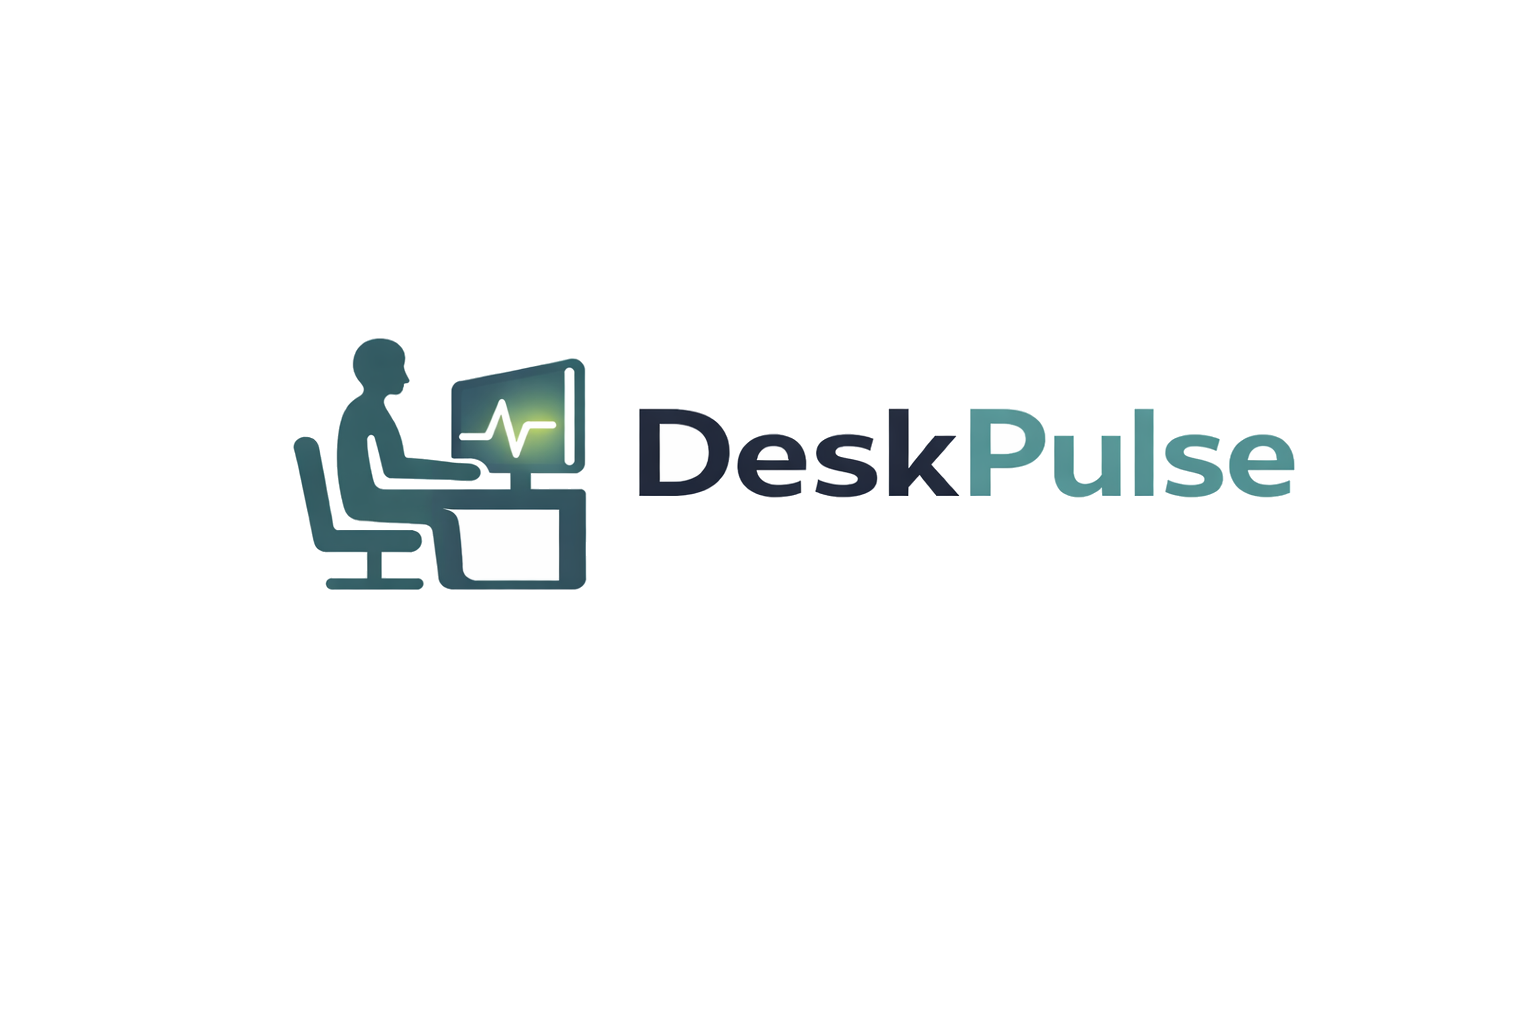
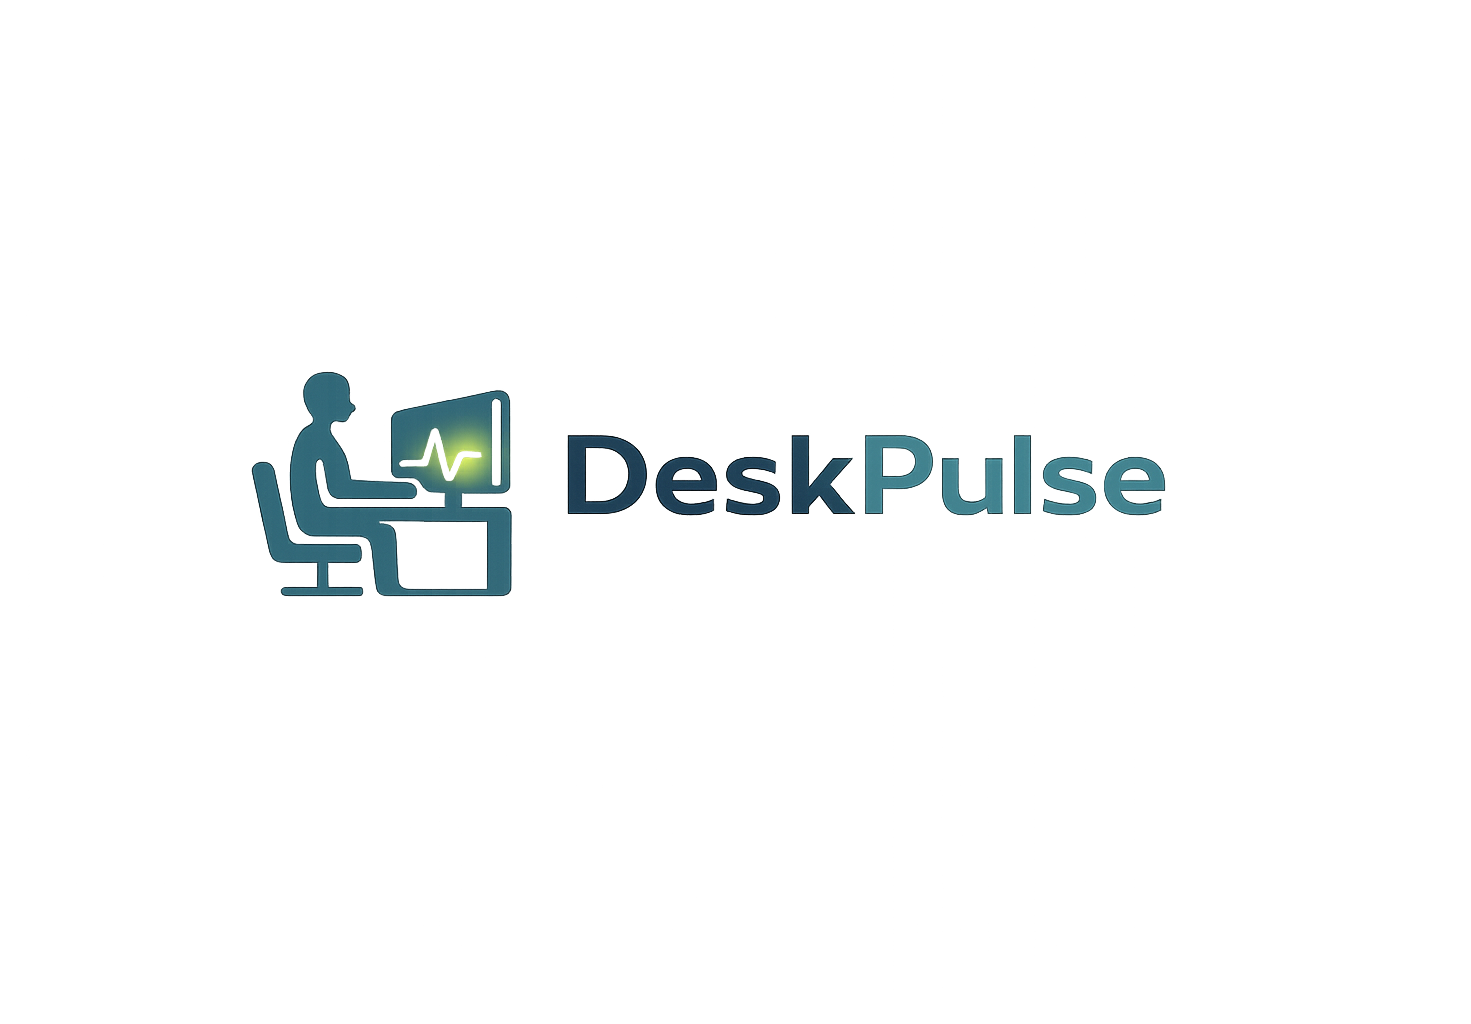
Brand refresh: replace with v2 assets (clean transparent PNG, 48px header)

Changed region(s): [[0.153, 0.3125, 0.8566, 0.5938]]

diff --git a/app/templates/base.html b/app/templates/base.html
@@ -78,7 +78,7 @@
 
         /* Brand lockup in dashboard header */
         .brand-lockup {
-            height: 64px;
+            height: 48px;
             width: auto;
             display: block;
             margin-bottom: 0.25rem;
